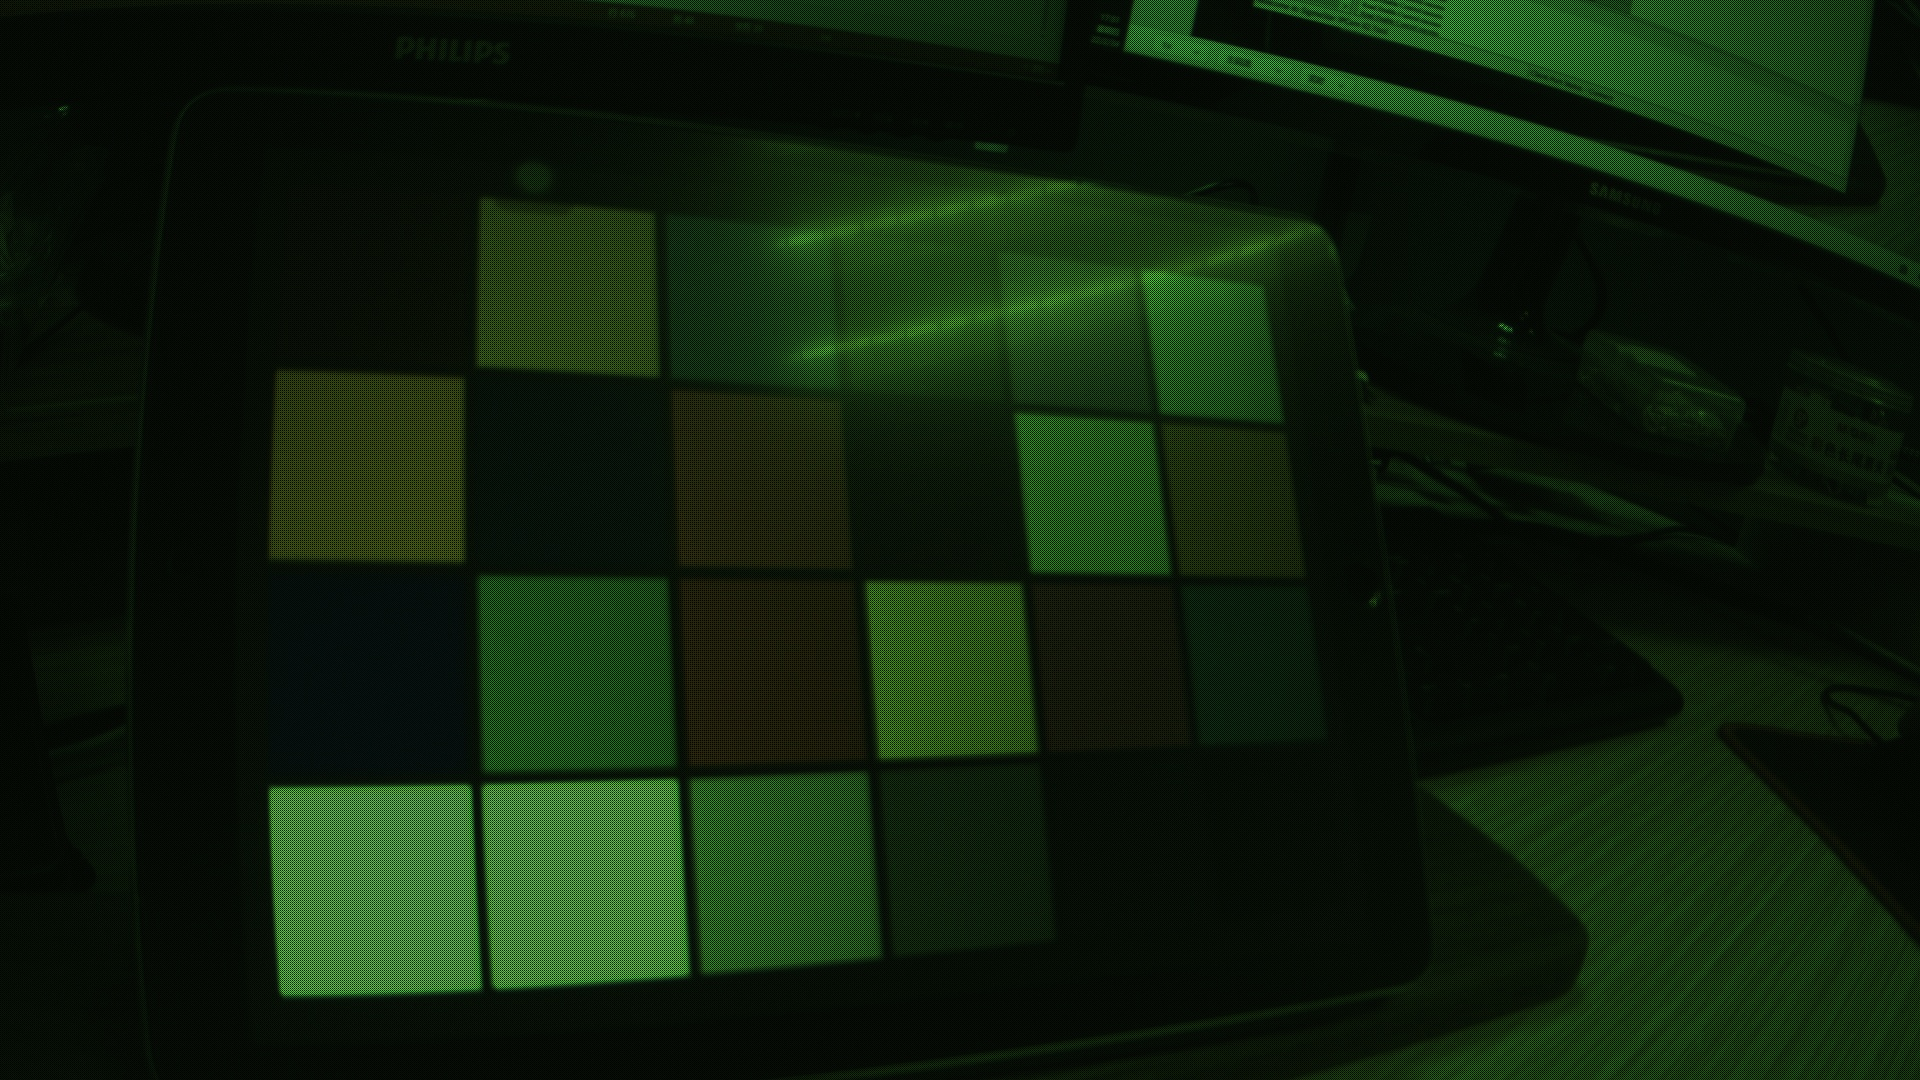
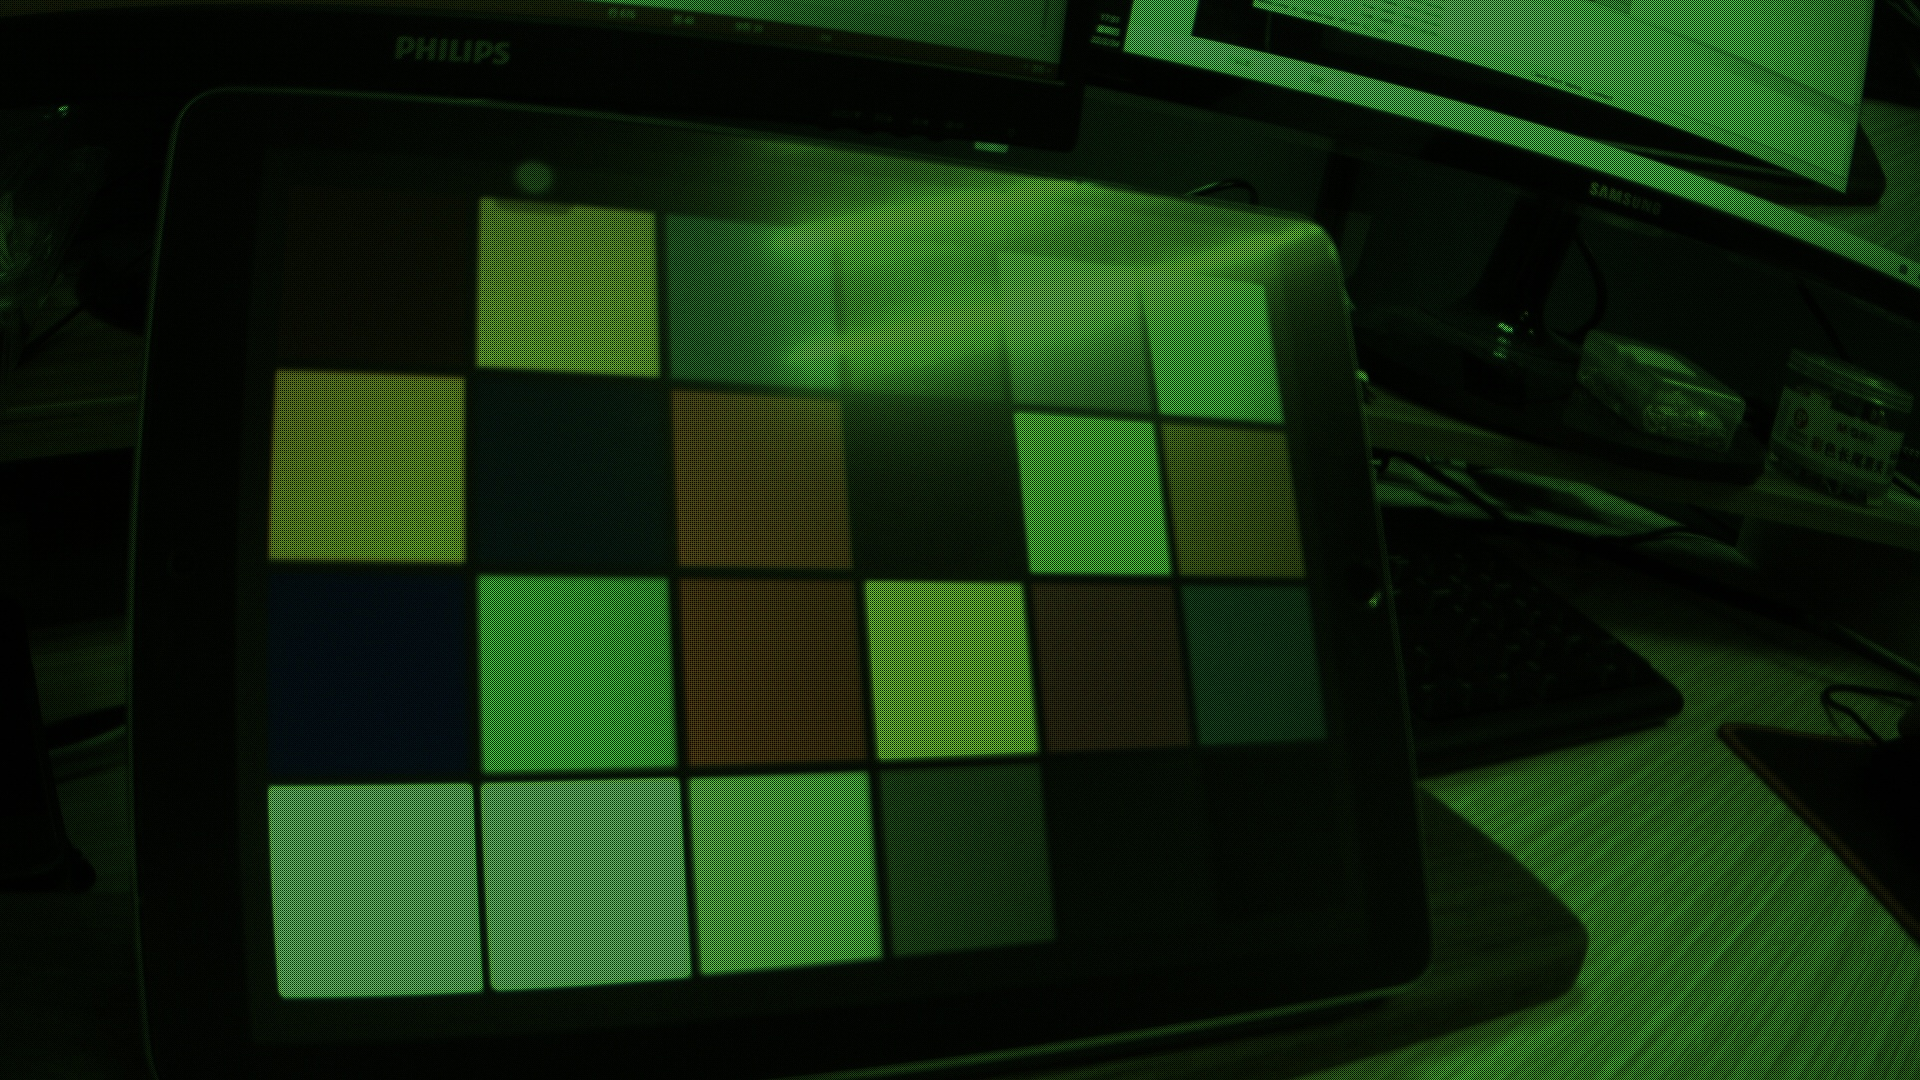
v0.1 ob ispgain完成

diff --git a/isp_gain.cpp b/isp_gain.cpp
@@ -1,13 +1,11 @@
 #include "isp_gain.h"
-
 //#include "raw_process.h"
 U8 isp_gain_process(U16* raw, int width, int height, G_CONFIG cfg)
 {
     for (int y = 0; y < height; y++) {
         for (int x = 0; x < width; x++) {
             int index = y * width + x;
-            raw[index] = clp_range(0, ((U32)raw[index] * cfg.isp_gain), U8MAX);
-            raw[index] = raw[index];
+            raw[index] = clp_range(0, ((U32)raw[index] * cfg.isp_gain)>>10, U16MAX);
         }
     }
 

diff --git a/raw_process.cpp b/raw_process.cpp
@@ -20,8 +20,8 @@ void load_cfg()
 	cfg.order = LITTLE_ENDIAN;
 	cfg.pattern = RGGB;
 
-	cfg.ob = 4000;
-	cfg.isp_gain = 1024;
+	cfg.ob = 4096;
+	cfg.isp_gain = 2048;
 }
 
 int main() 
@@ -39,8 +39,8 @@ int main()
         return -1;
     }
 
-	//ob_process(rawData, width, height, cfg);
-	//isp_gain_process(rawData, width, height, cfg);
+	ob_process(rawData, width, height, cfg);
+	isp_gain_process(rawData, width, height, cfg);
 
 
     // 为 RGB 通道分配内存

diff --git a/ob.h b/ob.h
@@ -2,5 +2,5 @@
 
 #include "raw_process.h"
 
-U8 ob_process(unsigned short* raw, int width, int height, G_CONFIG cfg);
+U8 ob_process(U16* raw, int width, int height, G_CONFIG cfg);
 
